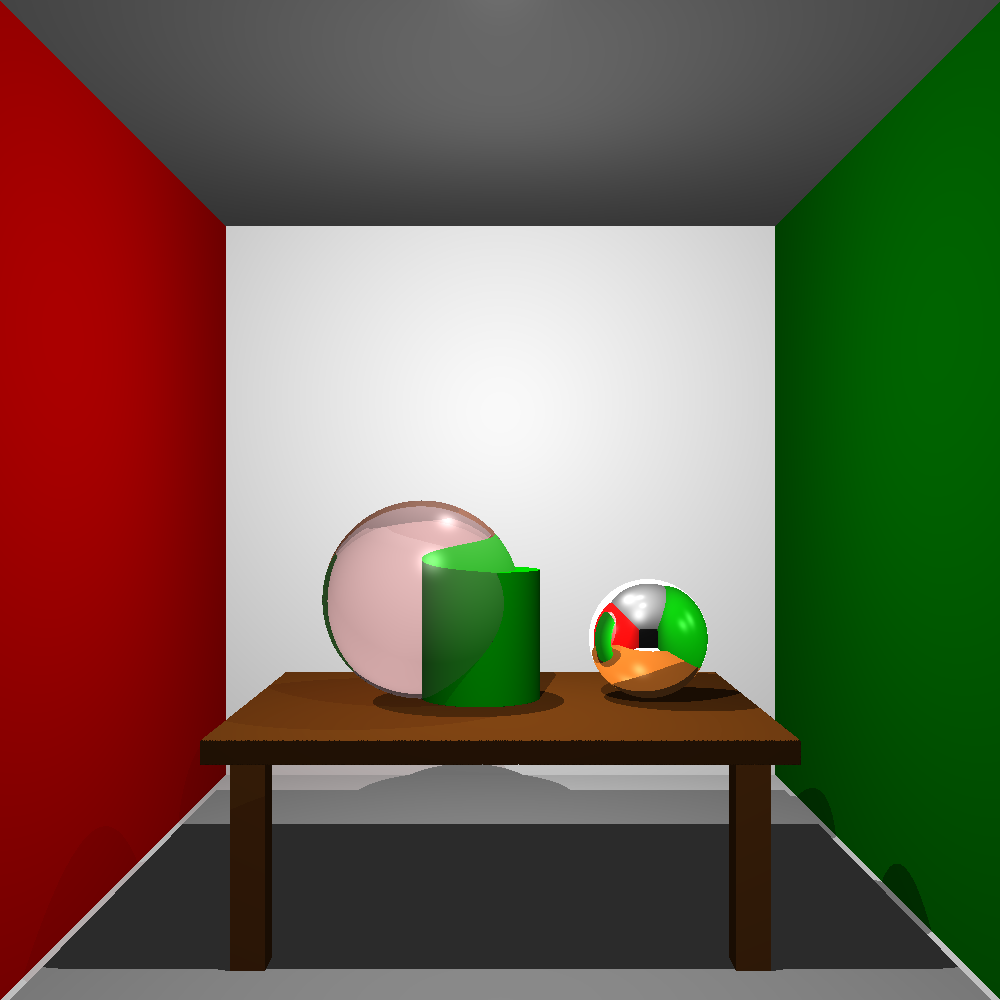
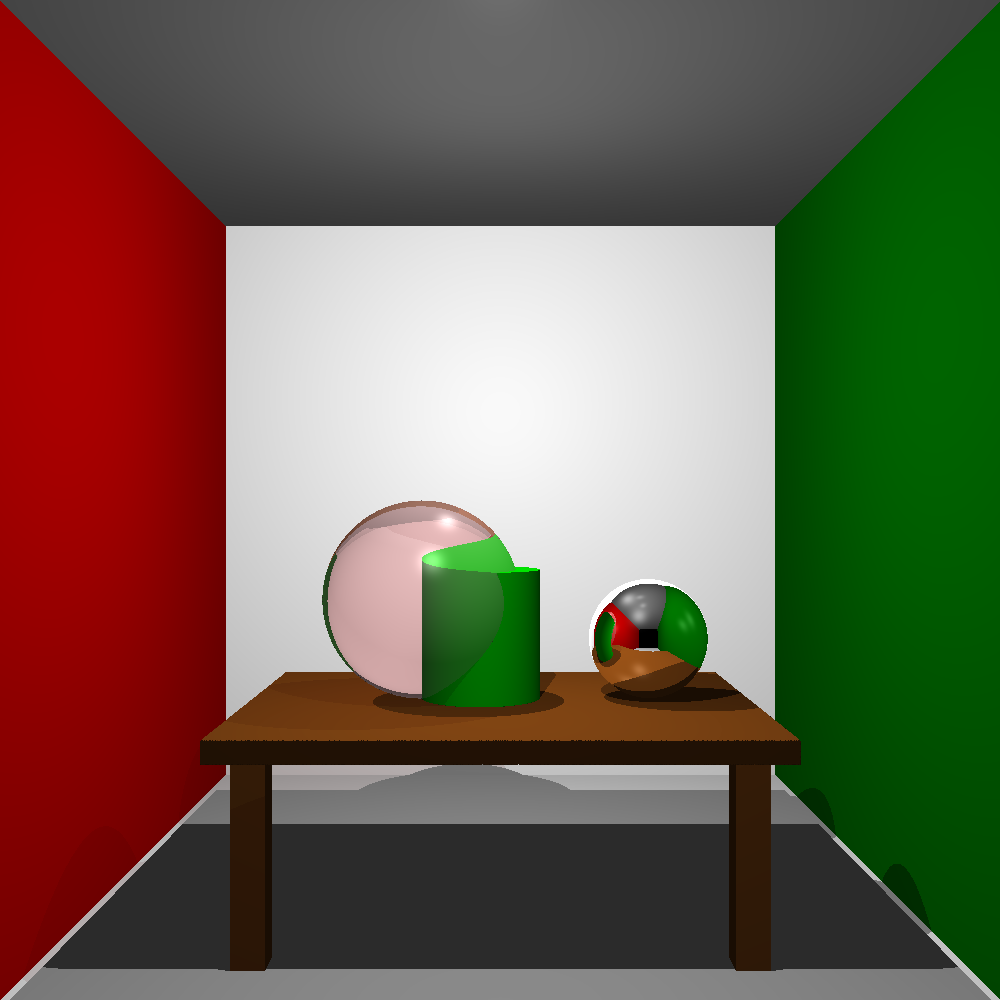
Cambio

Changed region(s): [[0.589, 0.589, 0.713, 0.713]]

diff --git a/main.cpp b/main.cpp
@@ -738,7 +738,7 @@ private:
 					if (adentro != nullptr)
 						r.adentro_de(adentro);
 
-					color += objeto->luz_especular() * r.color(profundidad - 1);
+					color += objeto->luz_especular() * r.color(profundidad - 1) * 0.6;
 				}
 
 				if (objeto->get_transparencia() < 1) {